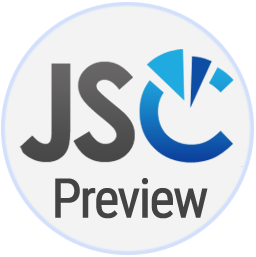
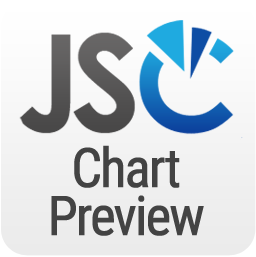
0.0.3 Release

diff --git a/src/extension.ts b/src/extension.ts
@@ -72,21 +72,25 @@ export function activate(context: vscode.ExtensionContext) {
 
 				const codeText = document.getText();
 
-				let jsonVal;
+				let jsonVal, skipUpdate;
 				try {
 					jsonVal = json5.parse(codeText);
-				} catch {
-					jsonVal = { };
+					jsonVal = fillData(jsonVal);
+
+				} catch (err) {
+					skipUpdate=true;
 				}
 
-				jsonVal = fillData(jsonVal);
-				let jsonString: string = JSON.stringify(jsonVal);
+				if(!skipUpdate){
+					let jsonString: string = JSON.stringify(jsonVal);
 
-				panel.webview.html = getWebviewContent(
-					json5Src,
-					jschartingSrc,
-					jsonString
-				);
+					panel.webview.html = getWebviewContent(
+						json5Src,
+						jschartingSrc,
+						jsonString
+					);
+				}
+
 			};
 
 			draw();
@@ -150,18 +154,19 @@ function getWebviewContent(
 		</html>`;
 }
 
-export function deactivate() { }
+export function deactivate() {
+}
 
-function fillData(cfg:any){
-	if(!cfg.series || cfg.series.length ===0){
+function fillData(cfg: any) {
+	if (!cfg.series || cfg.series.length === 0) {
 		cfg.series = [
 			{
-				name:'Temporary Data',
-				points:[
-					{name:'A',y:20},
-					{name:'B',y:50},
-					{name:'C',y:150},
-					{name:'D',y:75}
+				name: 'Temporary Data',
+				points: [
+					{name: 'A', y: 20},
+					{name: 'B', y: 50},
+					{name: 'C', y: 150},
+					{name: 'D', y: 75}
 				]
 			}
 		];

diff --git a/CHANGELOG.md b/CHANGELOG.md
@@ -1,5 +1,13 @@
 # Change Log
 
-## 0.1.0 - 2020.11.18
+
+## 0.0.3 - 2020.11.13
+
+- Update logo
+- Modify package details
+- Add license file
+- Handle json syntax errors
+
+## 0.0.1 - 2020.11.18
 
 - Initial release
